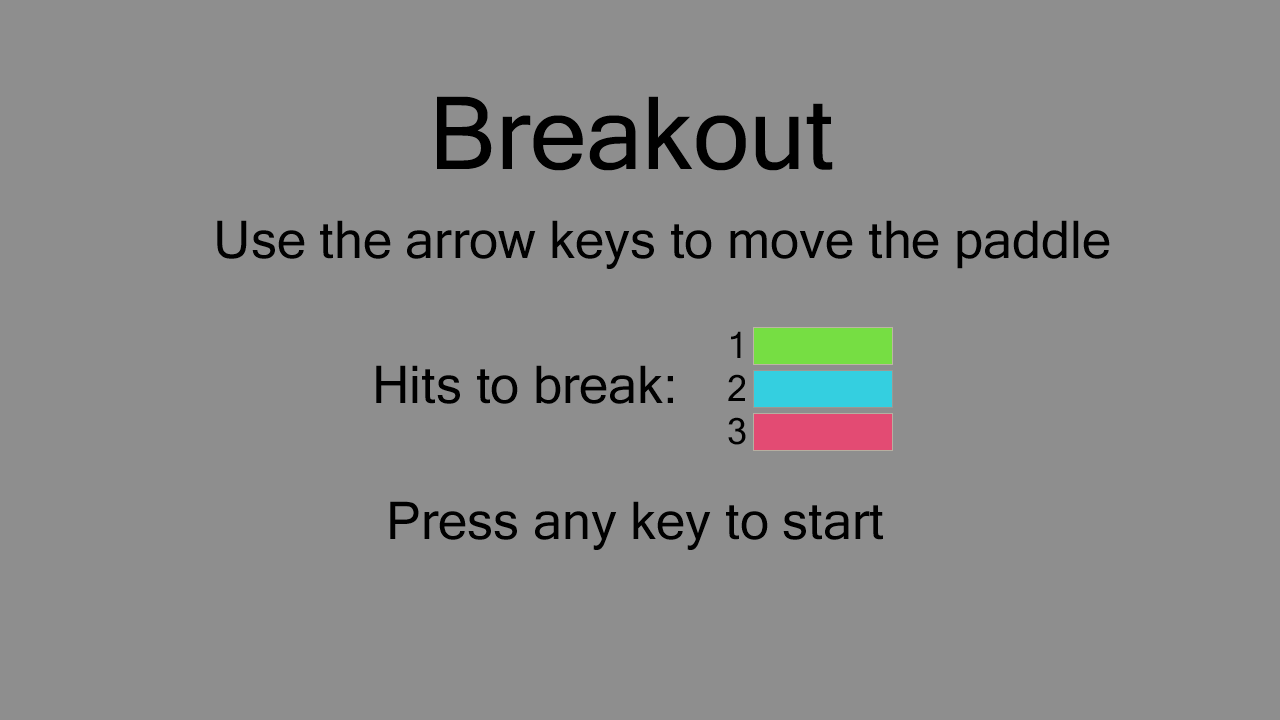
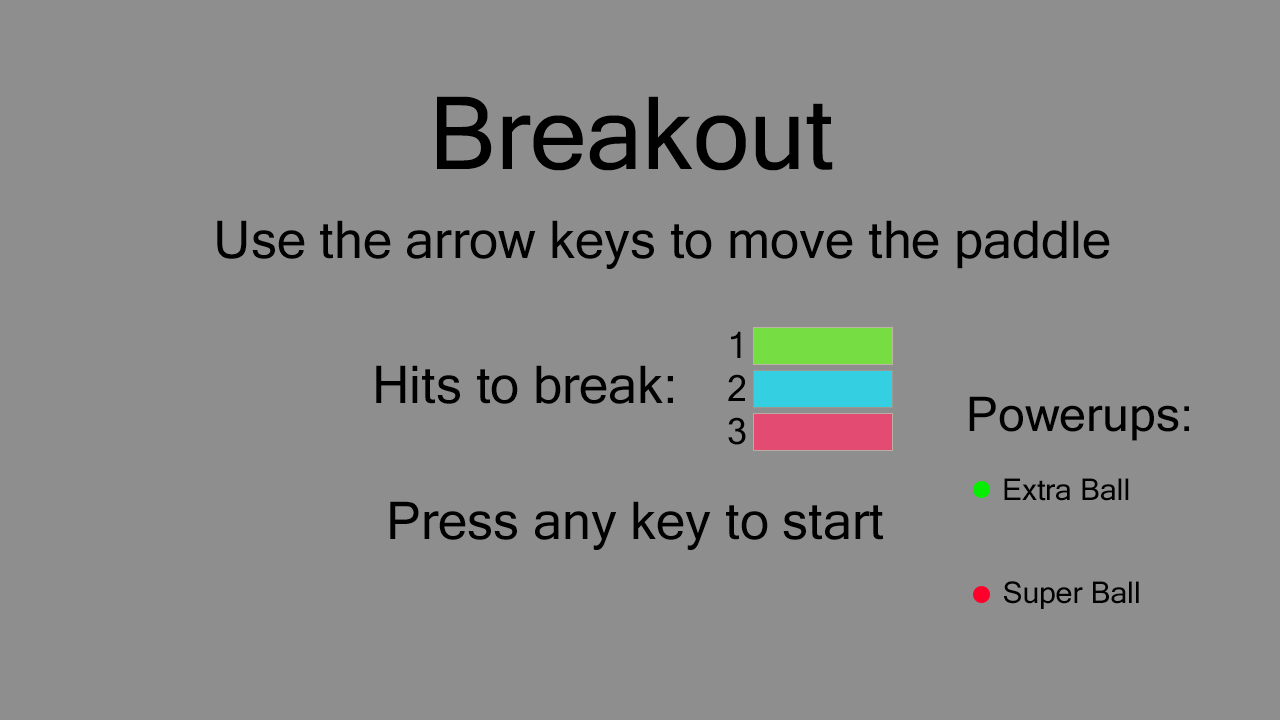
Added new powerup

Changed region(s): [[0.75, 0.55, 0.9375, 0.6111], [0.75, 0.7944, 0.9062, 0.8556], [0.75, 0.6722, 0.9062, 0.7028]]

diff --git a/Breakout/breakout.py b/Breakout/breakout.py
@@ -1,4 +1,5 @@
 from os import environ
+from tracemalloc import start
 environ['PYGAME_HIDE_SUPPORT_PROMPT'] = '1'
 import pygame
 from pygame.locals import Rect
@@ -14,6 +15,7 @@ you_win_screen = pygame.image.load('Breakout/resources/winScreenBreakout.png')
 press_to_start_screen = pygame.image.load('Breakout/resources/pressToStartScreenBreakout.png')
 
 extra_ball = pygame.image.load('Breakout/resources/extraBall.png')
+strong_ball = pygame.image.load('Breakout/resources/strongBall.png')
 
 # Window resolution (Default 1280 x 720)
 WINDOW_WIDTH = 1280
@@ -43,7 +45,7 @@ PADDLE_WIDTH = 140
 PADDLE_Y_POS = WINDOW_HEIGHT - 3 * (PADDLE_HEIGHT / 2)
 
 # Game Settings 
-level = 2  #(1, 2, or anything else for randomly generated level)
+level = 1  #(1, 2, or anything else for randomly generated level)
 BALL_RADIUS = 10
 BALL_SPEED_X = 0
 BALL_SPEED_Y = -4
@@ -168,6 +170,7 @@ class ball():
         self.y = y
         self.rect = Rect(self.x, self.y, self.ball_rad * 2, self.ball_rad * 2)
         self.game_over = 0
+        self.invincible = False
 
     def draw(self, display, true_ball):
         if true_ball == True:
@@ -184,7 +187,7 @@ class ball():
         powerup = []
         powerup.append(0)
         collision_threshold = 5
-
+        
         game_won = True
 
         row_count = 0
@@ -195,16 +198,20 @@ class ball():
                     # Check where collision came from
                     # Above:
                     if abs(self.rect.bottom - brick[0].top) < collision_threshold and self.speed_y > 0:
-                        self.speed_y *= -1
+                        if self.invincible == False:
+                            self.speed_y *= -1
                     # Below:
                     if abs(self.rect.top - brick[0].bottom) < collision_threshold and self.speed_y < 0:
-                        self.speed_y *= -1
+                        if self.invincible == False:
+                            self.speed_y *= -1
                     # Left:
                     if abs(self.rect.right - brick[0].left) < collision_threshold and self.speed_y > 0:
-                        self.speed_x *= -1
+                        if self.invincible == False:
+                            self.speed_x *= -1
                     # Right:
                     if abs(self.rect.left - brick[0].right) < collision_threshold and self.speed_y < 0:
-                        self.speed_x *= -1
+                        if self.invincible == False:
+                            self.speed_x *= -1
                     
                     # Damage block by 1 if it has at least 2 health
                     if brick_wall.brick_wall[row_count][brick_count][1] > 1:
@@ -213,7 +220,7 @@ class ball():
                         
                         # Spawn a powerup with a 33% chance if the block is broken
                         if randint(1, 3) == 3:
-                            powerup[0] = 1
+                            powerup[0] = randint(1, 2)
                             powerup_pos = [brick_wall.brick_wall[row_count][brick_count][0].x, brick_wall.brick_wall[row_count][brick_count][0].y]
                             powerup.append(powerup_pos)
                         
@@ -237,6 +244,7 @@ class ball():
             self.speed_x *= -1
         if self.rect.top < 0:
             self.speed_y *= -1
+            self.invincible = False
         
         # Check if player missed the ball
         if self.rect.bottom > WINDOW_HEIGHT + BALL_RADIUS * 2:
@@ -268,17 +276,24 @@ class ball():
         return self.game_over, powerup
 
 class power_up:
-    def __init__(self, x, y):
-
+    def __init__(self, type, x, y):
+        self.power_up_type = ""
         # Define powerup location and rectangle to be used for collision
         self.x = x
         self.y = y
         self.rect = Rect(self.x, self.y, 30, 30)
+        if type == 1:
+            self.power_up_type = "extra_ball"
+        elif type == 2:
+            self.power_up_type = "strong_ball"
 
     def draw(self, display):
 
-        # Draw powerup image on the powerup rectangle location
-        display.blit(extra_ball, (self.rect.x, self.rect.y)) 
+        # Draw correct powerup image on the powerup rectangle location
+        if self.power_up_type == "extra_ball":
+            display.blit(extra_ball, (self.rect.x, self.rect.y)) 
+        elif self.power_up_type == "strong_ball":
+            display.blit(strong_ball, (self.rect.x, self.rect.y)) 
         pygame.display.flip()
   
 
@@ -293,10 +308,17 @@ class power_up:
 
         # Remove the powerup and add a ball if the player collects the powerup
         elif self.rect.colliderect(player_paddle):
-            global ball_count
-            powerups.remove(self)
-            ball_count += 1
-            
+            if self.power_up_type == "extra_ball":
+                global ball_count
+                powerups.remove(self)
+                ball_count += 1
+
+            elif self.power_up_type == "strong_ball":
+                firstBall.invincible = True
+
+                 
+
+                
 
 
 class breakout_game:
@@ -321,7 +343,7 @@ class breakout_game:
                 
                 # Add a powerup to the powerup list if the 33% chance occurs
                 if powerup[0] != 0:
-                    new_powerup = power_up(powerup[1][0], powerup[1][1])
+                    new_powerup = power_up(powerup[0], powerup[1][0], powerup[1][1])
                     powerups.append(new_powerup)
                 
                 # Draw all powerups in the powerup list
@@ -339,8 +361,6 @@ class breakout_game:
         return game_over
         
     def update_ui(self):
-
-        
 
         # Draw the paddle and wall
         player_paddle.draw(self.display)
